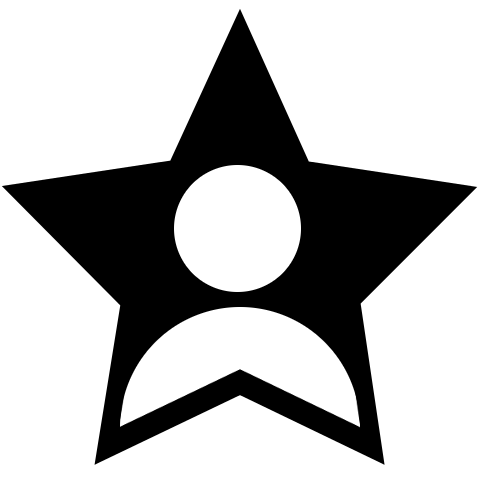
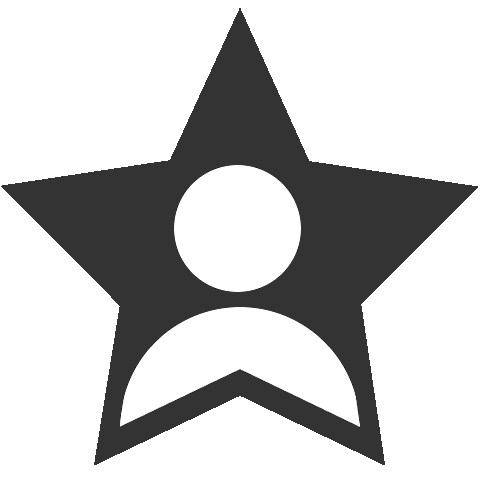
use github MD text color and dont link to image

Changed region(s): [[0.0, 0.0312, 1.0, 0.9688]]

diff --git a/README.md b/README.md
@@ -1,4 +1,4 @@
-# <img src="src/images/icon.svg" width="32"> Champions
+# [<img src="src/images/icon.png" width="32">](#) Champions
 
 [![Build Status](https://travis-ci.org/hook/champions.svg?branch=master)](https://travis-ci.org/hook/champions)
 [![Join the chat at https://gitter.im/hook/champions](https://img.shields.io/gitter/room/hook/champions.svg)](https://gitter.im/hook/champions?utm_source=badge&utm_medium=badge&utm_campaign=pr-badge&utm_content=badge)
